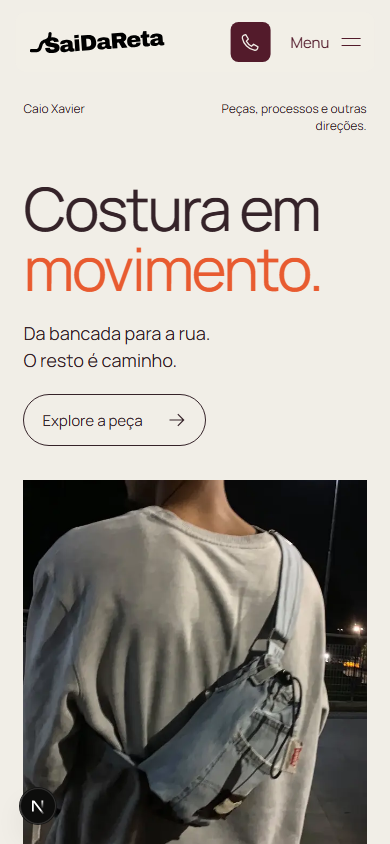
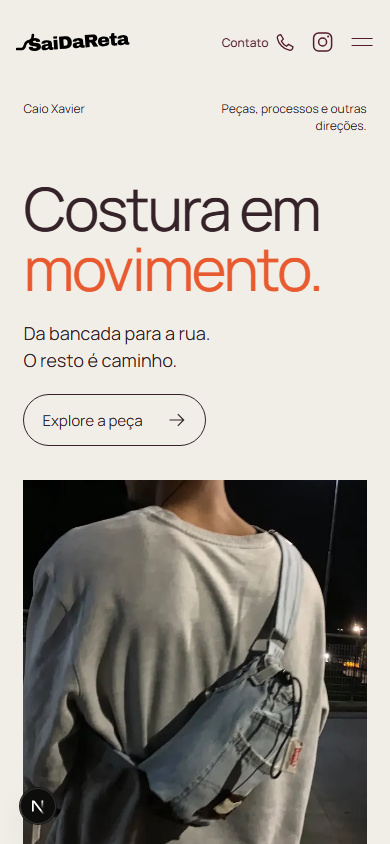
fix(navegacao): tornar header transparente e incluir Instagram

Changed region(s): [[0.5846, 0.0, 0.8615, 0.0924], [0.0308, 0.0308, 0.4308, 0.0616]]

diff --git a/app/page.tsx b/app/page.tsx
@@ -66,6 +66,7 @@ function Photo({
 
 export default function Home() {
   const root = useRef<HTMLDivElement>(null);
+  const header = useRef<HTMLElement>(null);
   const menuButton = useRef<HTMLButtonElement>(null);
   const detailContent = useRef<HTMLDivElement>(null);
   const [menu, setMenu] = useState(false);
@@ -244,6 +245,24 @@ export default function Home() {
   }, [reduced]);
 
   useEffect(() => {
+    let frame = 0;
+    const update = () => {
+      frame = 0;
+      const midpoint = header.current ? header.current.getBoundingClientRect().top + header.current.offsetHeight / 2 : 50;
+      const scene = Array.from(document.querySelectorAll<HTMLElement>("[data-tone]")).find((element) => {
+        const bounds = element.getBoundingClientRect();
+        return bounds.top <= midpoint && bounds.bottom > midpoint;
+      });
+      if (header.current) header.current.dataset.surface = scene?.dataset.tone || "paper";
+    };
+    const scroll = () => { if (!frame) frame = requestAnimationFrame(update); };
+    window.addEventListener("scroll", scroll, { passive: true });
+    window.addEventListener("resize", scroll);
+    update();
+    return () => { cancelAnimationFrame(frame); window.removeEventListener("scroll", scroll); window.removeEventListener("resize", scroll); };
+  }, []);
+
+  useEffect(() => {
     const media = window.matchMedia("(min-width: 1001px)");
     const reset = () => { if (media.matches) setMenu(false); };
     const outside = (event: PointerEvent) => {
@@ -298,7 +317,7 @@ export default function Home() {
       <a className="skip" href="#manifesto">
         Pular para o conteúdo
       </a>
-      <header className="header" data-menu={menu}>
+      <header className="header" ref={header} data-menu={menu}>
         <a className="brand" href="#inicio" aria-label="SaiDaReta, início">
           <Image
             src="/brand/assinatura.svg"
@@ -314,9 +333,14 @@ export default function Home() {
             </a>
           ))}
         </nav>
+        <div className="header-actions">
         <a className="contact-button" href="tel:+5511979879591" aria-label="Ligar para Caio Xavier: (11) 97987-9591">
           <span>Contato</span><span className="contact-icon"><svg viewBox="0 0 24 24" fill="none" aria-hidden="true"><path d="m7 3 3 5-2.3 2.4a15 15 0 0 0 5.9 5.9L16 14l5 3c-.4 3-2.1 4.2-4.3 3.8C10.4 19.7 4.3 13.6 3.2 7.3 2.8 5.1 4 3.4 7 3Z" stroke="currentColor" strokeWidth="1.5" strokeLinejoin="round" /></svg></span>
         </a>
+        <a className="instagram-link" href="https://www.instagram.com/originalvier/" aria-label="Instagram de Caio Xavier, @originalvier" target="_blank" rel="noopener noreferrer">
+          <svg viewBox="0 0 24 24" fill="none" aria-hidden="true"><rect x="3" y="3" width="18" height="18" rx="5" stroke="currentColor" strokeWidth="1.5"/><circle cx="12" cy="12" r="4" stroke="currentColor" strokeWidth="1.5"/><circle cx="17.5" cy="6.5" r="1" fill="currentColor"/></svg>
+        </a>
+        </div>
         <button
           className="menu-button"
           ref={menuButton}

diff --git a/app/style.css b/app/style.css
@@ -1113,3 +1113,29 @@ a:active, button:active { scale: .97; }
   .footer-scene h2 { font-size: 15vw; }
   .footer-emblem { width: 18vw; height: 18vw; }
 }
+
+/* Transparent navigation: the current editorial surface supplies contrast. */
+.header { background: transparent; backdrop-filter: none; border: 0; box-shadow: none; padding-inline: 0; color: var(--wine); }
+.header-actions { display: flex; align-items: center; justify-self: end; gap: 22px; }
+.contact-button { gap: 10px; }
+.contact-icon { width: 24px; height: 24px; border-radius: 0; background: transparent; color: inherit; }
+.contact-button:hover .contact-icon { background: transparent; color: inherit; }
+.instagram-link { min-width: 28px; min-height: 44px; display: inline-flex; align-items: center; justify-content: center; }
+.header[data-surface="wine"] { color: var(--paper); }
+.header[data-surface="blue"] { color: var(--yellow); }
+.header[data-surface="wine"] .brand img, .header[data-surface="blue"] .brand img { filter: brightness(0) invert(1); }
+.menu-panel { color: var(--wine); }
+@media (max-width: 1000px) {
+  .header { gap: 20px; background: transparent; padding-inline: 0; }
+  .header-actions { gap: 16px; }
+  .contact-button > span:first-child { position: static; width: auto; height: auto; overflow: visible; clip-path: none; }
+  .contact-icon { width: 22px; height: 22px; }
+}
+@media (max-width: 480px) {
+  .header { gap: 14px; }
+  .brand img { width: 114px; }
+  .header-actions { gap: 12px; }
+  .contact-button { font-size: 12px; gap: 6px; }
+  .menu-button { font-size: 0; gap: 0; width: 24px; justify-content: center; }
+  .menu-lines { width: 21px; }
+}

diff --git a/docs/header-motion-release.md b/docs/header-motion-release.md
@@ -30,3 +30,12 @@ Nova branch feature/header-motion criada da develop atualizada. Commits 4527c75 
 Limites: não há validação em aparelho físico, leitor de tela ou Safari/Firefox nesta unidade. A abertura real do discador depende de aplicativo de chamadas disponível no dispositivo.
 
 Rodapé mobile: corrigida largura mínima automática do título com grid minmax(0,1fr), título 15vw e emblema 18vw até 1000px. Revisão visual pelo controlador confirmou emblema inteiro após o ajuste. Lint, tipos e build repetidos no ajuste: exit 0.
+
+
+## Correção do header transparente
+
+A primeira release foi integrada pela PR 3 https://github.com/eovitu/caio-xavier/pull/3, merge main 94b82bf946bf9bf257a52c4ddf0b25ecfcf2ad72. PR 2 foi integrada em develop pelo merge 20e351c564f38cb30d6fa53d48baf022736defdb, com os 3 checks aprovados no head 1a2a99ad880db561ae78c9868855533e7bf8086c.
+
+Após a release, o usuário pediu header totalmente transparente e Instagram. Novo ciclo na branch fix/header-transparent, criada da develop atualizada, preserva header fixo, remove fundo, filtro, sombra e borda, e adapta cor de texto à seção. Contato mantém texto junto ao SVG simples do telefone. Instagram @originalvier usa https://www.instagram.com/originalvier/ e SVG próprio. O painel do menu conserva fundo para leitura.
+
+Header transparente: lint, tipos e build passaram. Revisão Chromium pelo controlador em 1440 × 900, 390 × 844 e 640 × 320 aprovou desktop/celular, Instagram e contato sem caixa. Sem cortes ou overflow; abertura e saída do menu mantidas. Capturas header-review atualizadas.
